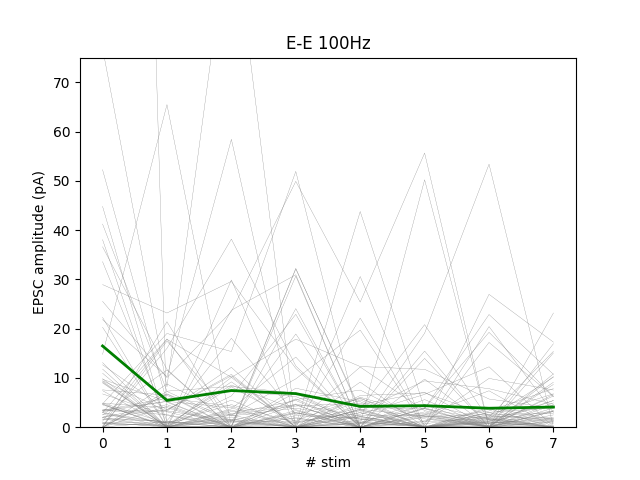
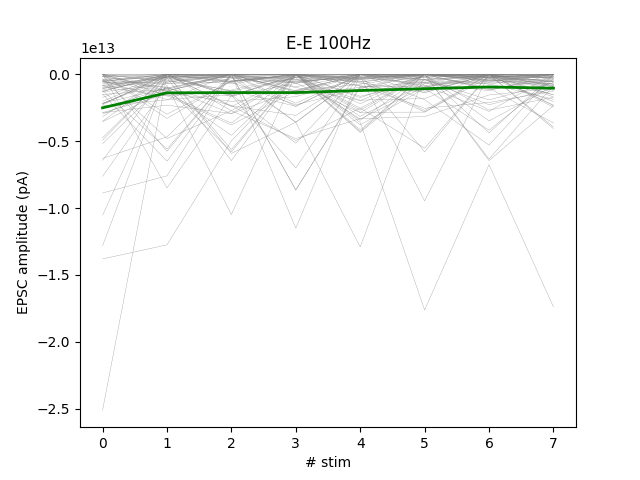
Fixed normalization

diff --git a/scripts/extract_STP_data.py b/scripts/extract_STP_data.py
@@ -31,7 +31,9 @@ results = pandas.DataFrame(columns=['pair_id',
                                     'clamp_mode',
                                     'ind_freq',
                                     'rec_delay',
-                                    'amps']
+                                    'amps',
+                                    'psc_amp',
+                                    'psp_amp']
                            )
 
 for ix in range(len(pairs)):
@@ -58,6 +60,11 @@ for ix in range(len(pairs)):
                 if 1 not in pulses or 2 not in pulses:
                     continue
                 amps = {k: r.PulseResponseFit.fit_amp for k, r in pulses.items()}
+                if clamp_mode == 'vc':
+                    normamps = np.array(list(amps.values())) / pair.synapse.psc_amplitude
+
+                elif clamp_mode == 'ic':
+                    normamps = np.array(list(amps.values())) / pair.synapse.psp_amplitude
 
                 results = results.append({'pair_id': pair.id,
                                           'pre_cell': pair.pre_cell.cell_class,
@@ -66,29 +73,13 @@ for ix in range(len(pairs)):
                                           'clamp_mode': clamp_mode,
                                           'ind_freq': ind_freq,
                                           'rec_delay': rec_delay,
-                                          'amps': list(amps.values())},
+                                          'amps': np.array(list(amps.values())),
+                                          'normamps': normamps,
+                                          'stimuli': list(amps.keys()),
+                                          'psc_amp': pair.synapse.psc_amplitude,
+                                          'psp_amp': pair.synapse.psp_amplitude},
                                          ignore_index=True)
 
-def calc_norm_amplitudes(results):
-
-    initialAmp = {}
-    # iterate over pairs
-    for id in list(results.pair_id.unique()):
-        subdat = results[results.pair_id==id]
-        vcdat = subdat[subdat.clamp_mode == 'vc']
-        icdat = subdat[subdat.clamp_mode == 'ic']
-        initialAmp[id] = {'vc': np.array([vcdat.amps.iloc[i][0] for i in range(len(vcdat))]).mean(),
-                          'ic': np.array([icdat.amps.iloc[i][0] for i in range(len(icdat))]).mean()}
-
-    normAmp = []
-
-    for i in range(len(results)):
-        s = results.iloc[i]
-        normAmp.append(np.array(s.amps) / initialAmp[s.pair_id][s.clamp_mode])
-
-    results['normAmps'] = normAmp
-
-    return results
 
 def get_amps_first8(results, normalized=False):
     """
@@ -99,24 +90,23 @@ def get_amps_first8(results, normalized=False):
 
     for ix in range(len(results)):
         if normalized:
-            amps = results.iloc[ix].normAmps
+            amps = results.iloc[ix].normamps
         else:
             amps = results.iloc[ix].amps
 
-            if len(amps) >= 8:
-                x[ix, :] = amps[:8]
-            else:
-                x[ix, :] = np.pad(amps, (0, 8-len(amps)), constant_values=np.nan)
+        if len(amps) >= 8:
+            x[ix, :] = amps[:8]
+        else:
+            x[ix, :] = np.pad(amps, (0, 8-len(amps)), constant_values=np.nan)
 
     return x
 
 
 # Example
-x = get_amps_first8(results[(results.ind_freq==100.0) & (results.clamp_mode == 'vc')])
+x = get_amps_first8(results[(results.ind_freq==100.0) & (results.clamp_mode == 'vc')], normalized=True)
 
 plt.plot(-x.T*(10**12), lw=0.2, color='gray')
 plt.plot(np.nanmean(-x*(10**12), 0), lw=2, color='green')
-plt.ylim(0, 75)
 plt.xlabel('# stim')
 plt.ylabel('EPSC amplitude (pA)')
 plt.title('E-E 100Hz')
@@ -124,11 +114,10 @@ plt.title('E-E 100Hz')
 plt.savefig('example_EE_100Hz')
 plt.show()
 
-x = get_amps_first8(results[(results.ind_freq==50.0) & (results.clamp_mode == 'vc')])
+x = get_amps_first8(results[(results.ind_freq==50.0) & (results.clamp_mode == 'vc')], normalized=True)
 
 plt.plot(-x.T*(10**12), lw=0.2, color='gray')
 plt.plot(np.nanmean(-x*(10**12), 0), lw=2, color='green')
-plt.ylim(0, 75)
 plt.xlabel('# stim')
 plt.ylabel('EPSC amplitude (pA)')
 plt.title('E-E 50Hz')
